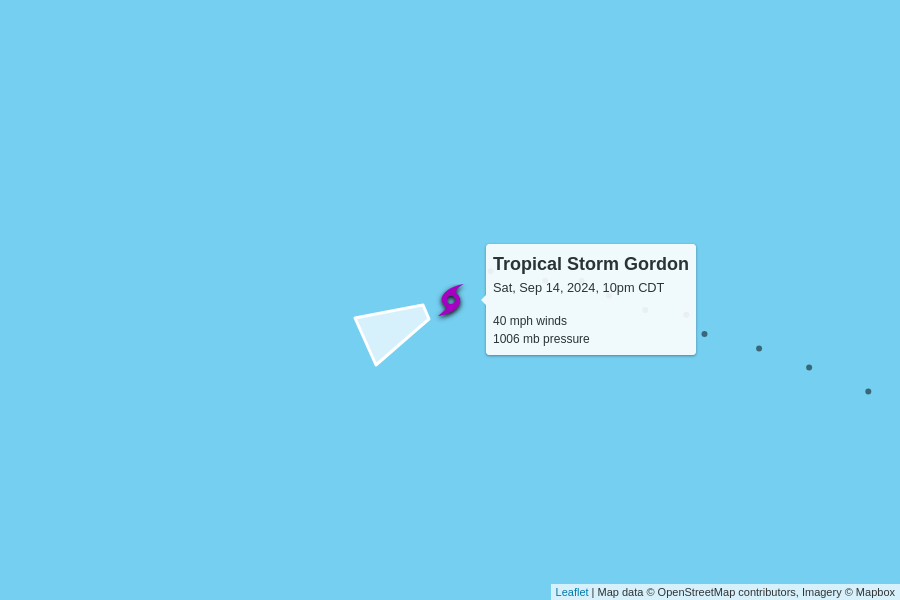
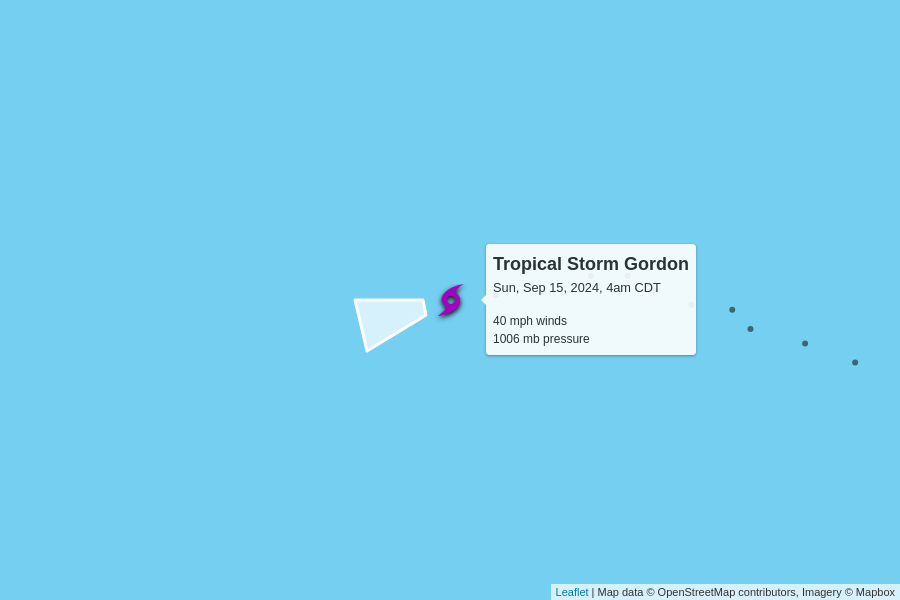
automatic update

Changed region(s): [[0.56, 0.45, 0.7467, 0.51], [0.3733, 0.48, 0.4978, 0.6]]

diff --git a/docs/index.html b/docs/index.html
@@ -102,7 +102,7 @@
         <td colspan="6" class="storm category-0" >
           <h2>
             Tropical Storm Gordon
-            <p class="updated">last updated <span data-time>2024-09-15T03:00:00.000Z</span></p>
+            <p class="updated">last updated <span data-time>2024-09-15T09:00:00.000Z</span></p>
           </h2>
         </td>
       </tr>
@@ -117,12 +117,12 @@
       </tr>
       <tr>
         <td class="spacer"></td>
-        <td>40 mph<br>-5 mph since last update</td>
-        <td>1006 mb<br>+2 mb since last update</td>
+        <td>40 mph<br>0 mph since last update</td>
+        <td>1006 mb<br>0 mb since last update</td>
         <td>
           10 mph to the west-southwest
           <br/>
-          <span style="display: inline-block; font-size: 1.5em; transform: rotate(245deg);">↑</span>
+          <span style="display: inline-block; font-size: 1.5em; transform: rotate(255deg);">↑</span>
         </td>
         <td><a href="https://raw.githubusercontent.com/mgwalker/atlantic-hurricanes/main/data/csv/AL072024.csv">AL072024.csv</a></td>
         <td><a href="https://www.nhc.noaa.gov/archive/2024/GORDON.shtml?">NHC advisories</a></td>
